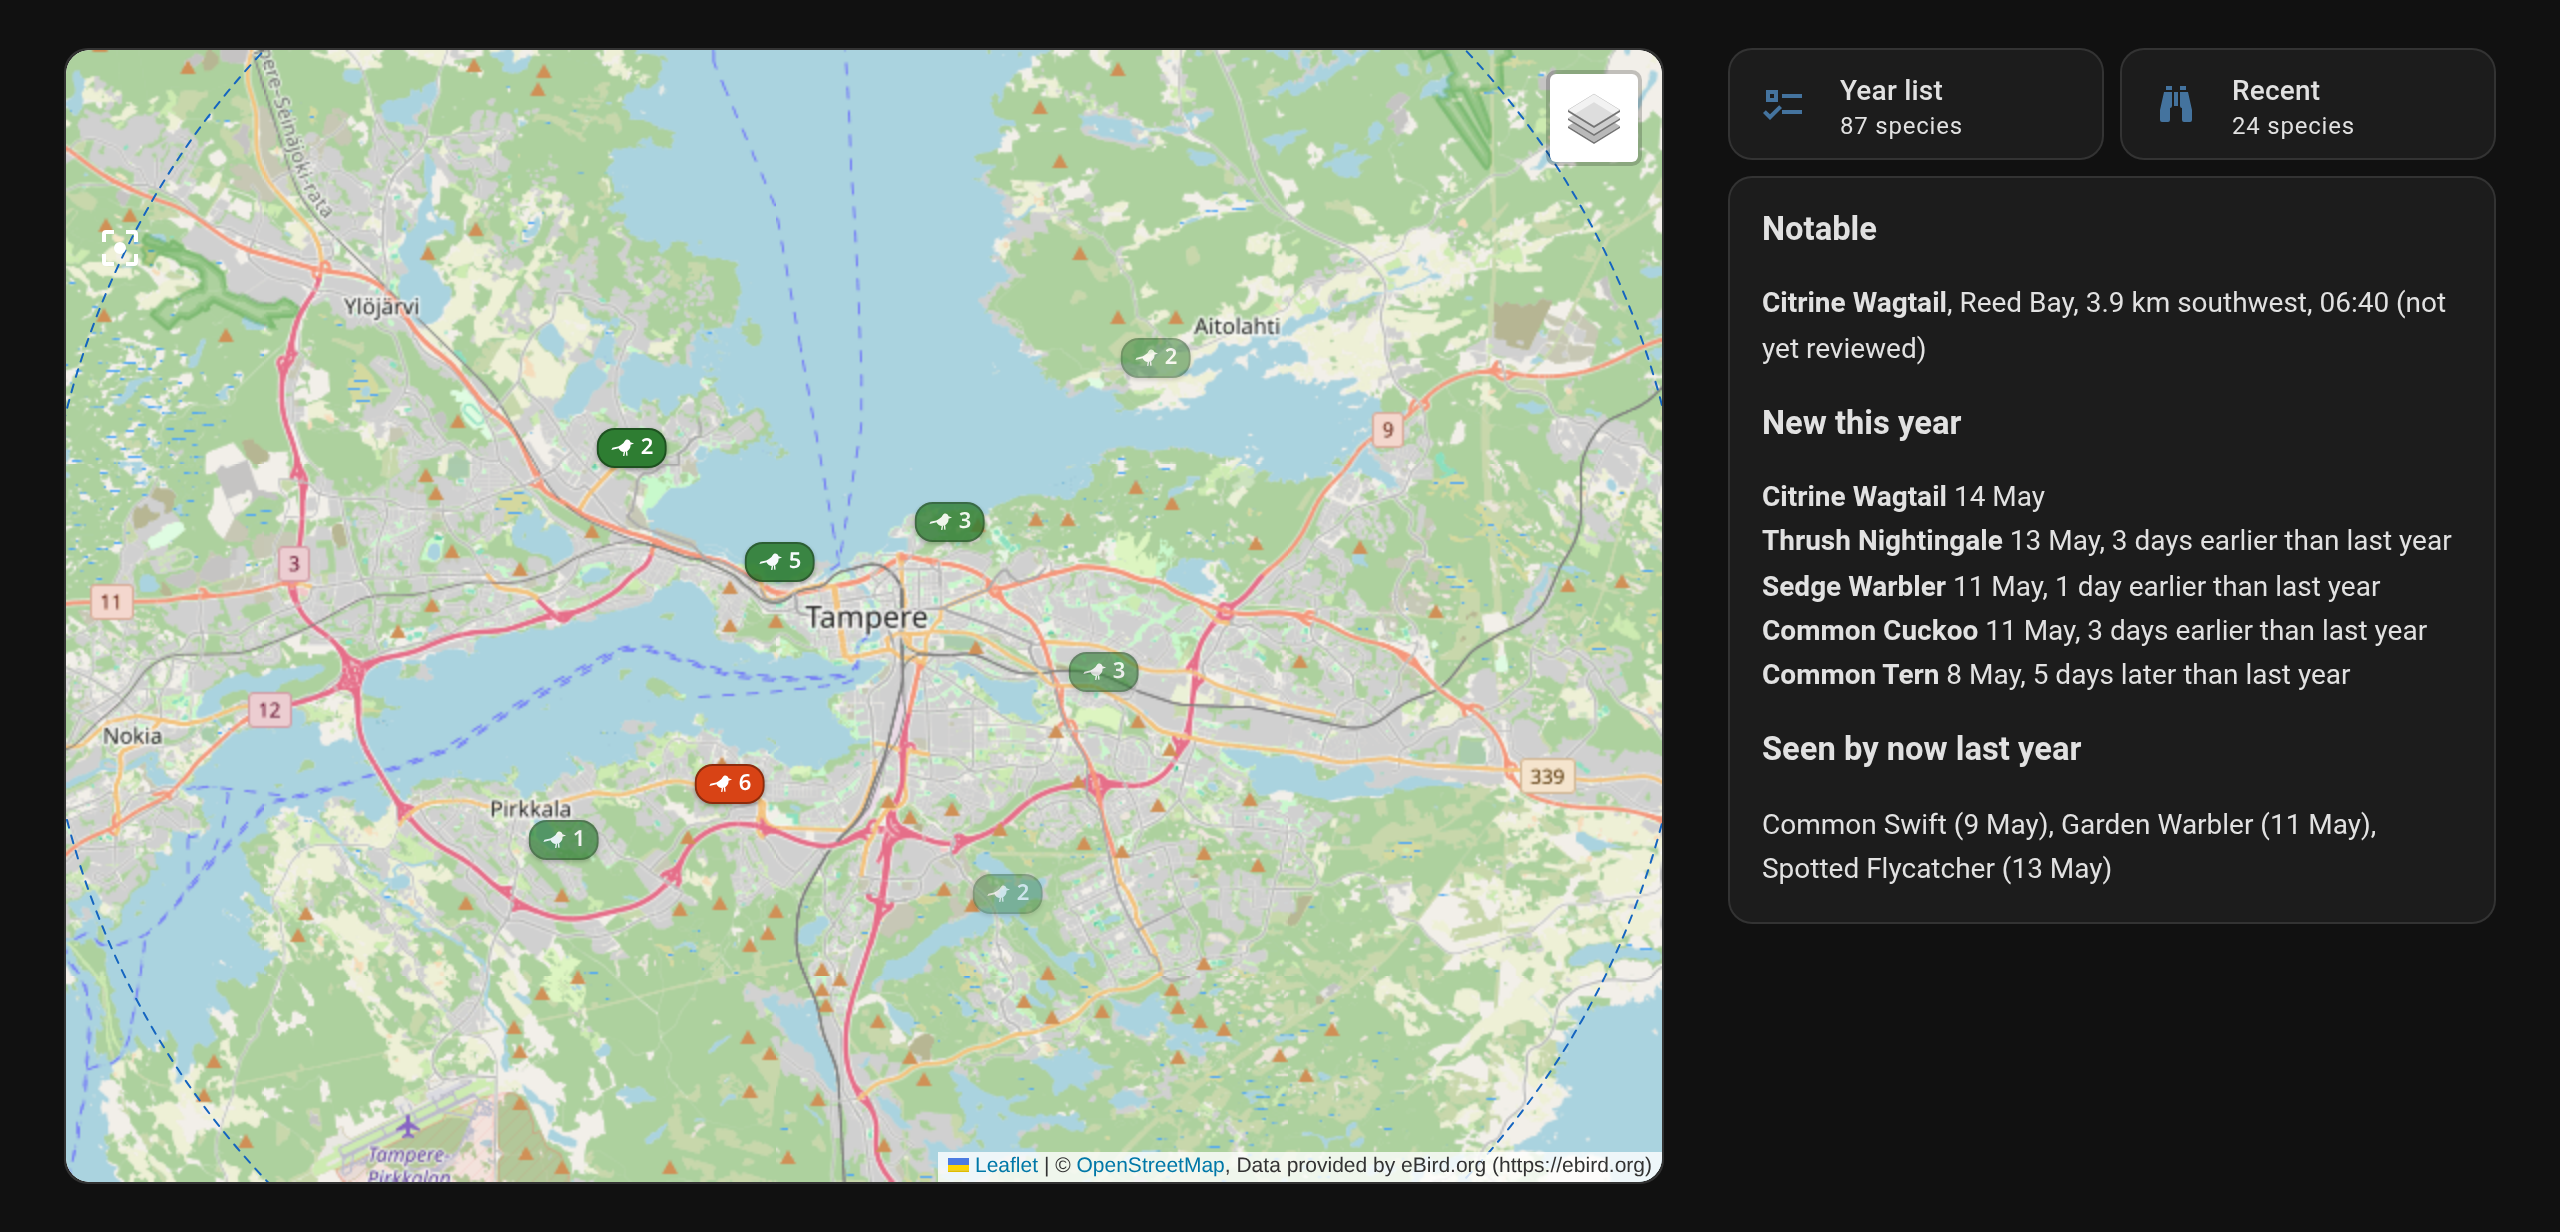
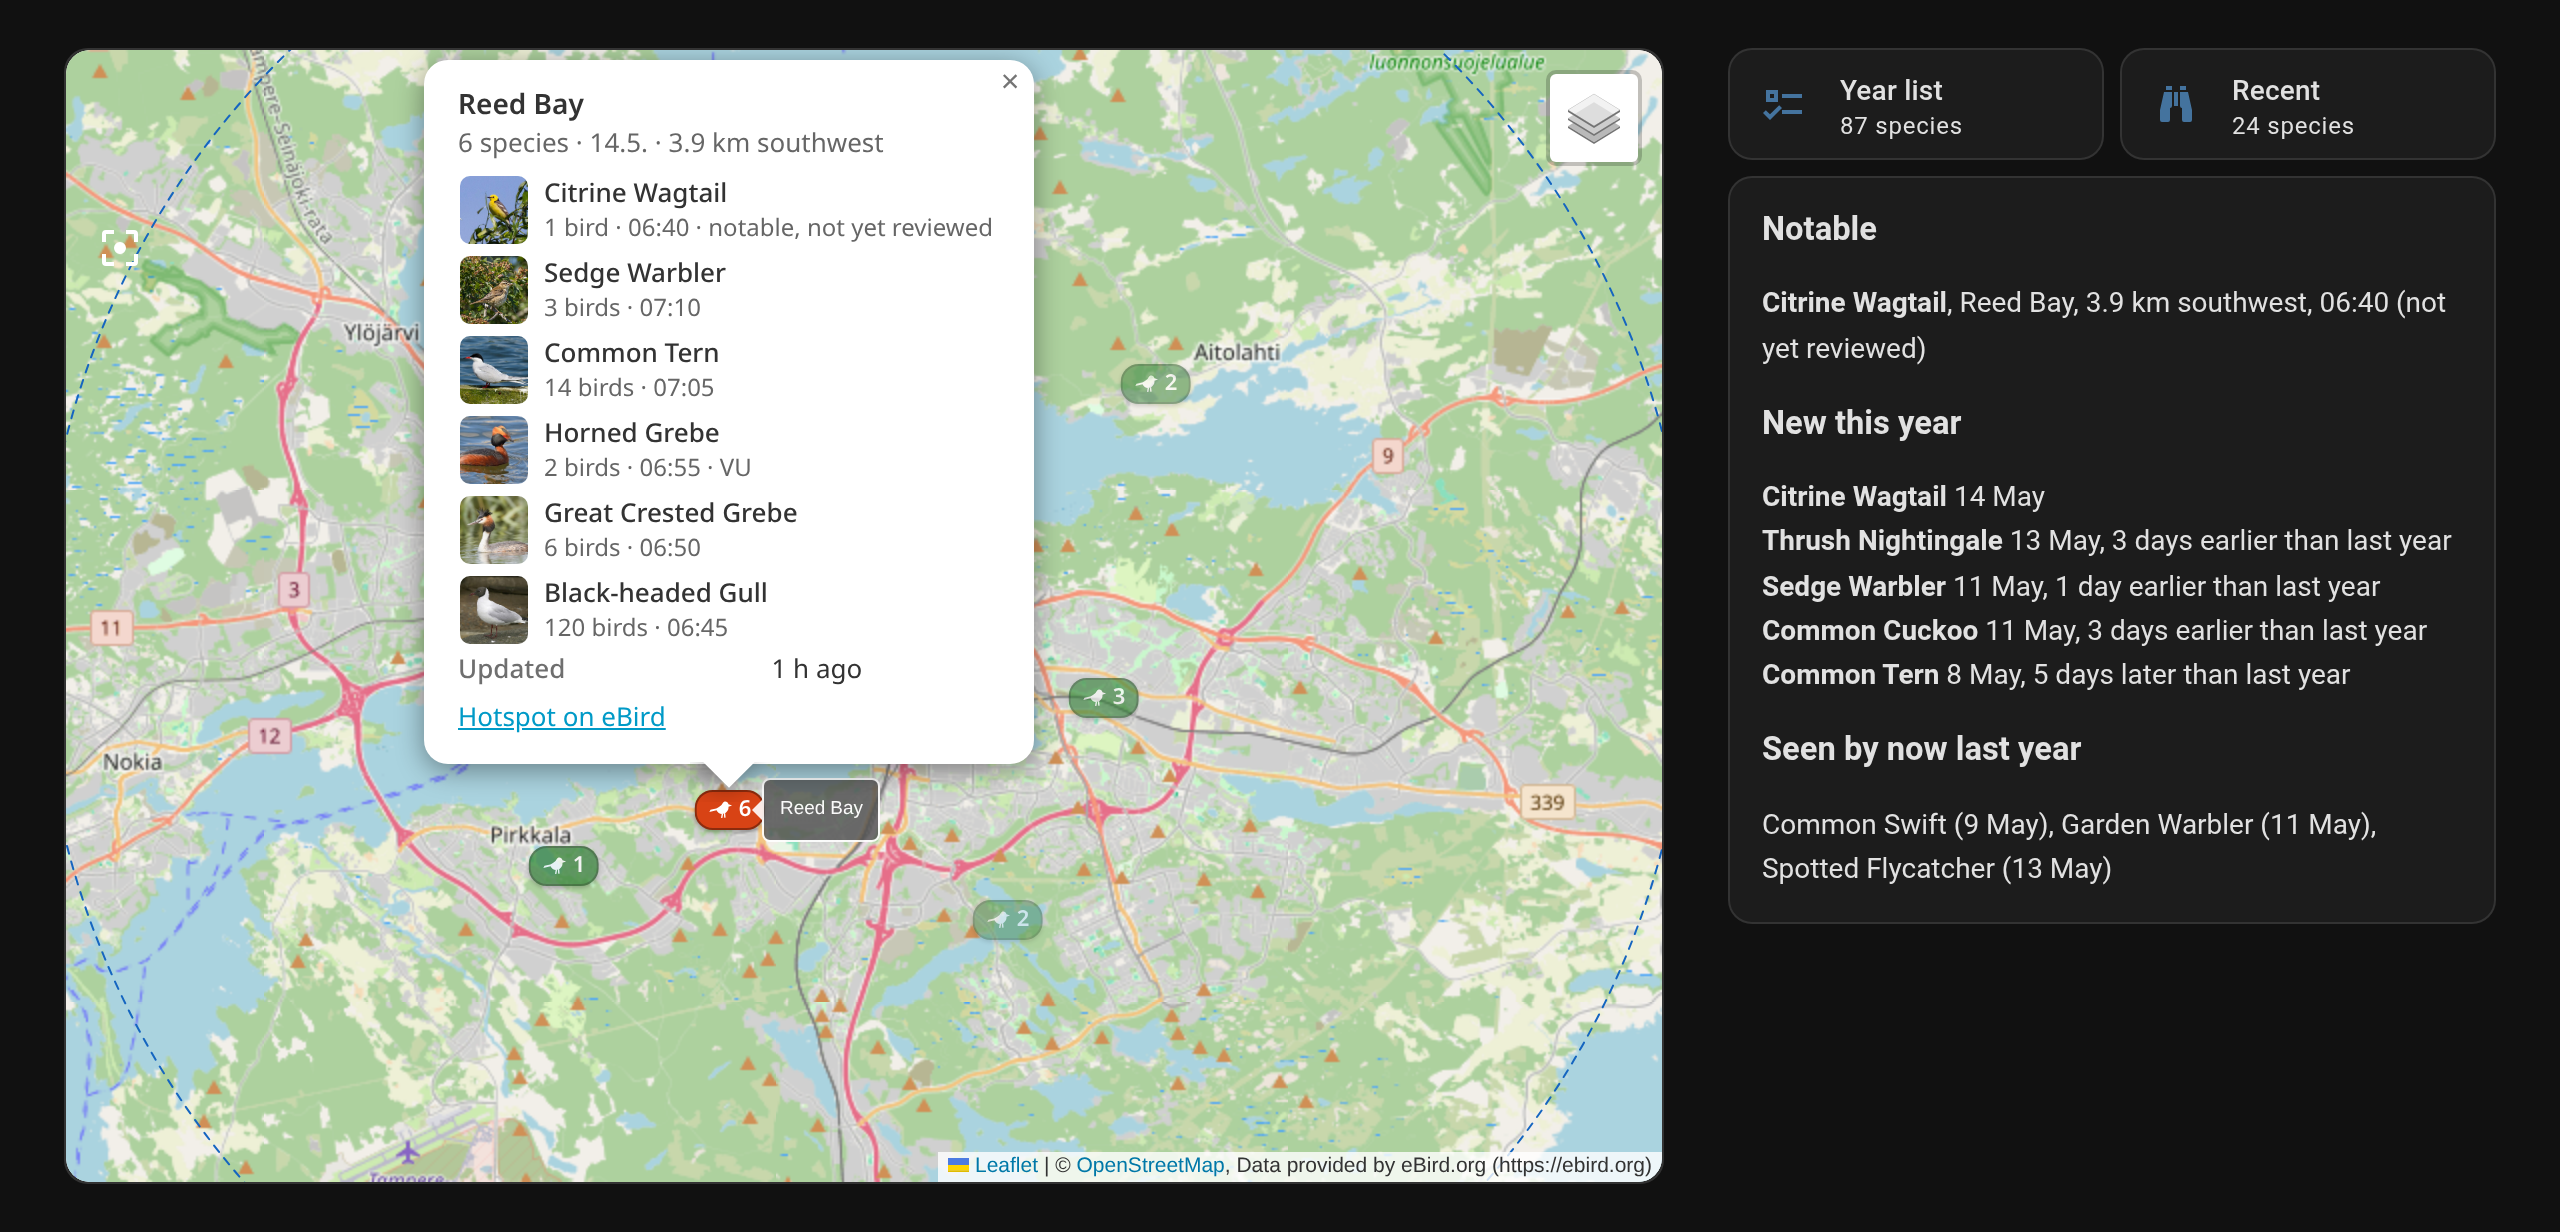
A place's popup in the README picture
The dashboard picture shows the popup of a place with a notable sighting,
its species with their pictures, a threatened species' category and the
link to the place on eBird. The pictures are credited under it.

diff --git a/README.md b/README.md
@@ -5,8 +5,13 @@ first sightings of the year, and the sightings on a map.
 
 [![GitHub Release][releases-shield]][releases] [![GitHub Release Date][release-date-shield]][releases] [![HACS][hacs-shield]][hacs] [![License][license-shield]](LICENSE)
 
-<img src="https://raw.githubusercontent.com/jesmak/birds_nearby/main/docs/images/dashboard-light.png#gh-light-mode-only" width="1280" alt="A dashboard around Tampere, with a map of eight places where birds were seen, older ones fainter and one with a notable sighting in orange, the year list and recent species counts, and lists of the notable sighting, the newest species of the year compared with last year and the species seen by this date last year but not yet">
-<img src="https://raw.githubusercontent.com/jesmak/birds_nearby/main/docs/images/dashboard-dark.png#gh-dark-mode-only" width="1280" alt="A dashboard around Tampere, with a map of eight places where birds were seen, older ones fainter and one with a notable sighting in orange, the year list and recent species counts, and lists of the notable sighting, the newest species of the year compared with last year and the species seen by this date last year but not yet">
+<img src="https://raw.githubusercontent.com/jesmak/birds_nearby/main/docs/images/dashboard-light.png#gh-light-mode-only" width="1280" alt="A dashboard around Tampere, with a map of eight places where birds were seen, older ones fainter, and the popup of a place with a notable sighting listing six species with their pictures. Beside it the year list and recent species counts, and lists of the notable sighting, the newest species of the year compared with last year and the species seen by this date last year but not yet">
+<img src="https://raw.githubusercontent.com/jesmak/birds_nearby/main/docs/images/dashboard-dark.png#gh-dark-mode-only" width="1280" alt="A dashboard around Tampere, with a map of eight places where birds were seen, older ones fainter, and the popup of a place with a notable sighting listing six species with their pictures. Beside it the year list and recent species counts, and lists of the notable sighting, the newest species of the year compared with last year and the species seen by this date last year but not yet">
+
+The sightings in the picture are made up. The species pictures are from Wikimedia Commons. The Citrine Wagtail is by
+Ron Knight (CC BY 2.0), the Sedge Warbler by Charles J. Sharp (CC BY-SA 4.0), the Common Tern by MPF (CC BY-SA 4.0),
+the Horned Grebe by Ekaterina Chernetsova (CC BY 2.0), the Great Crested Grebe by JJ Harrison (CC BY-SA 3.0) and the
+Black-headed Gull by Hans Hillewaert (CC BY-SA 3.0).
 
 ## What is it?
 
